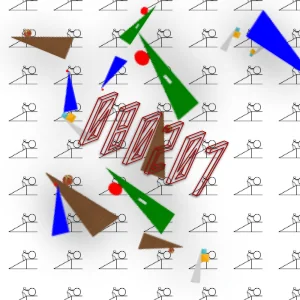
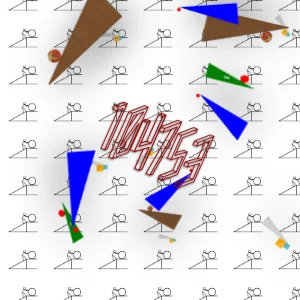
z

diff --git a/src/pages/2026/26-06/26-06-02/Clock.module.css b/src/pages/2026/26-06/26-06-02/Clock.module.css
@@ -40,7 +40,7 @@
   display: inline-flex;
   justify-content: center;
   /* Proportionally sized to the 26vh font-size to ensure digits don't overlap */
-  width: 16vh; 
+  width: 6vh; 
 }
 
 .vtecImage {
